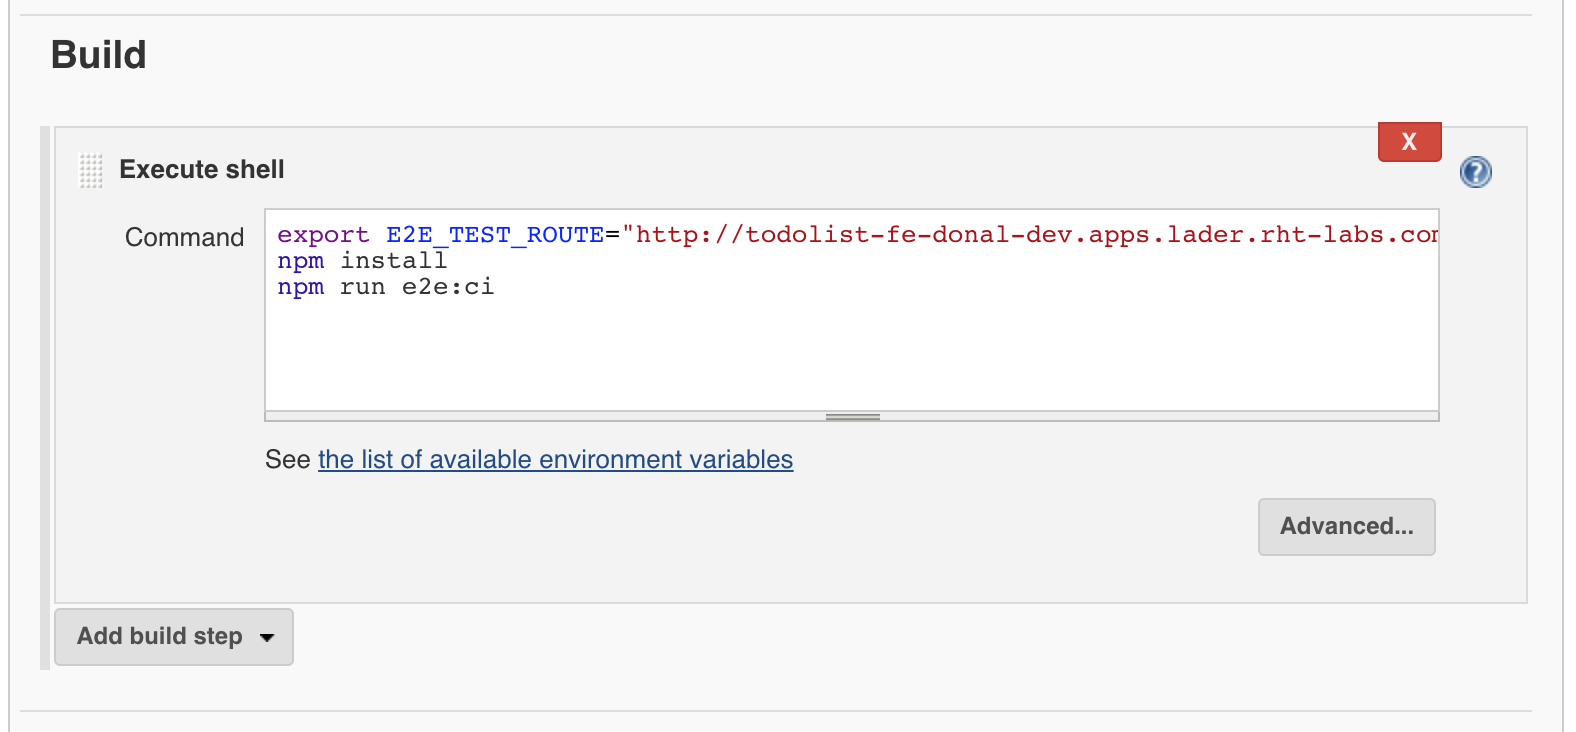
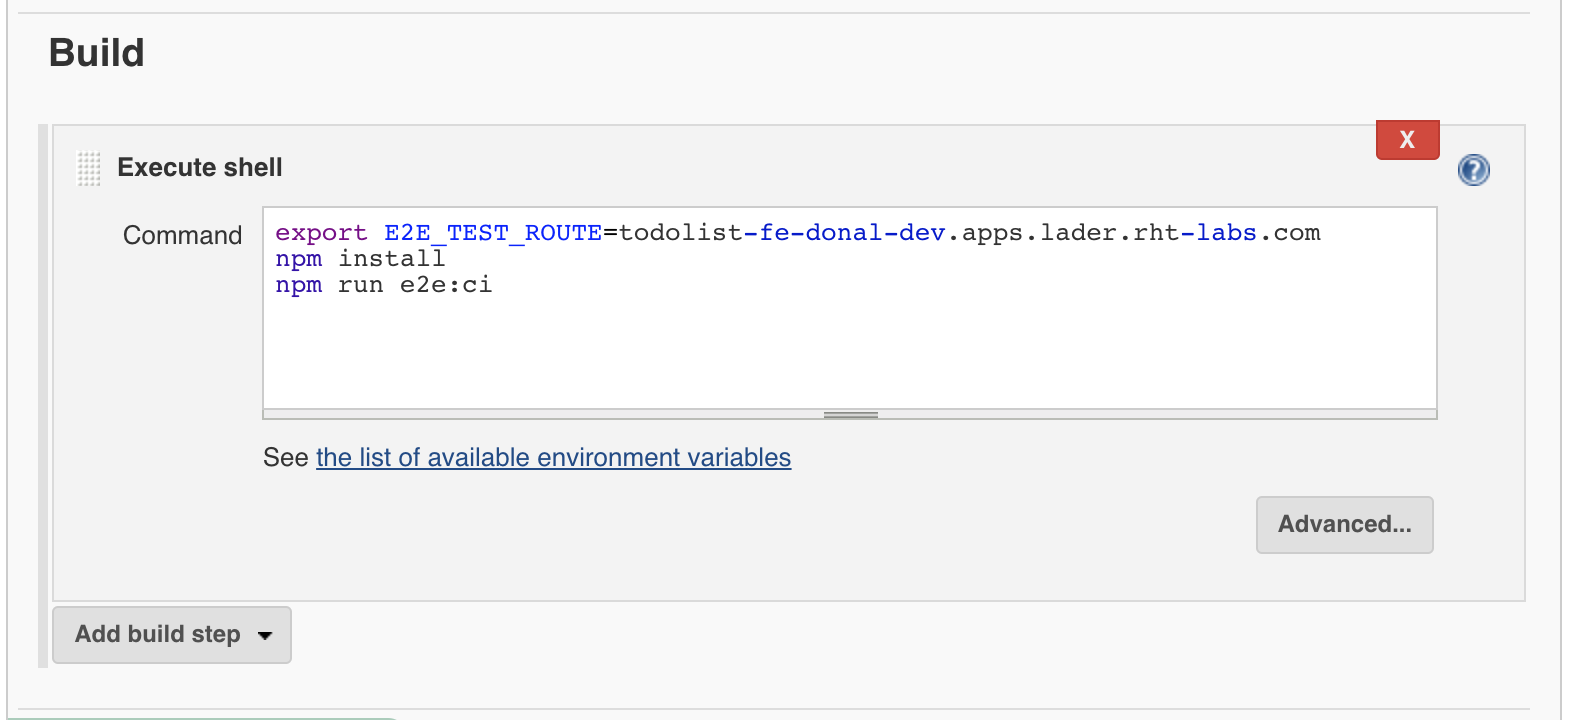
FIX - e2e url

diff --git a/3-revenge-of-the-automated-testing/README.md b/3-revenge-of-the-automated-testing/README.md
@@ -233,7 +233,7 @@ $ npm run e2e
 
 2. On the Build section; add a build step to execute shell and fill in the followin substituting the domain name and `<YOUR_NAME>` and `somedomain` accordingly:
 ```bash
-export E2E_TEST_ROUTE="http://todolist-fe-<YOUR_NAME>-dev.apps.somedomain.com/"
+export E2E_TEST_ROUTE=todolist-fe-<YOUR_NAME>-dev.apps.somedomain.com
 npm install
 npm run e2e:ci
 ```
